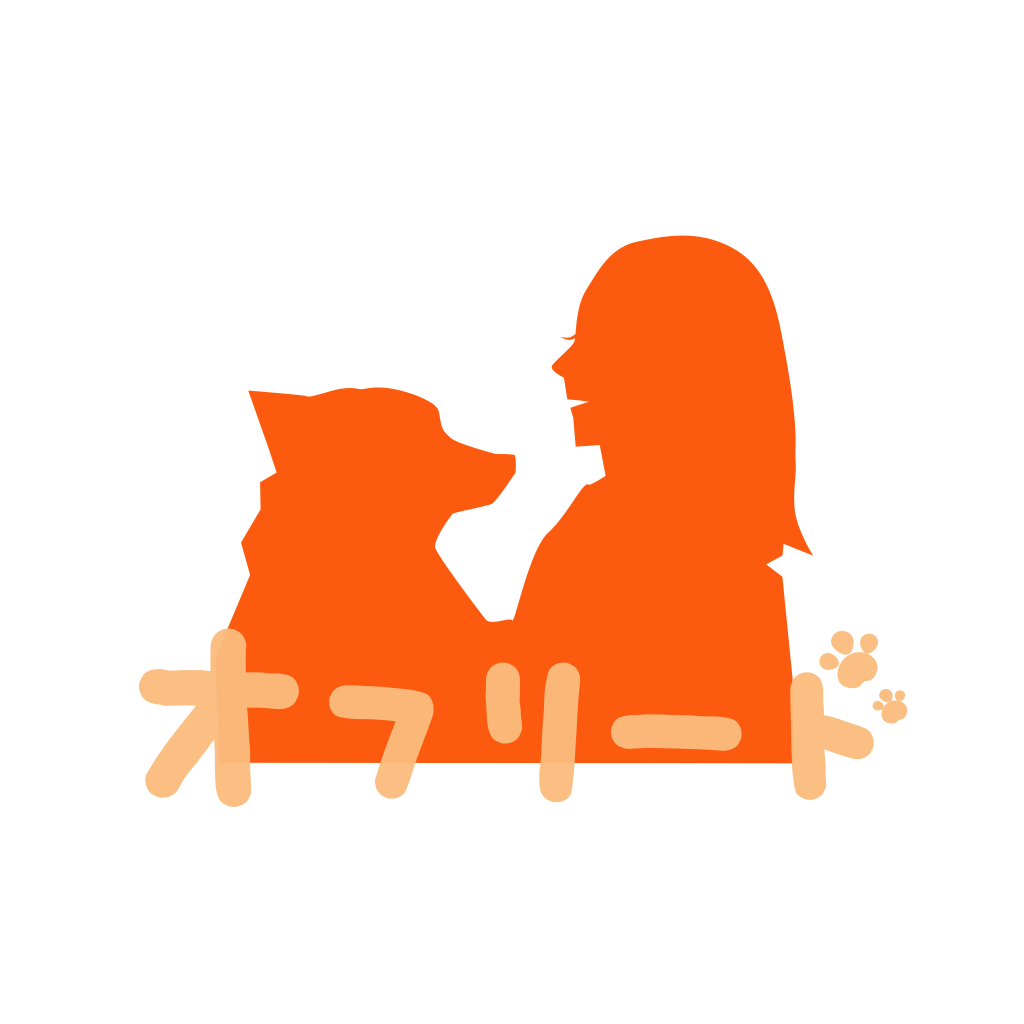
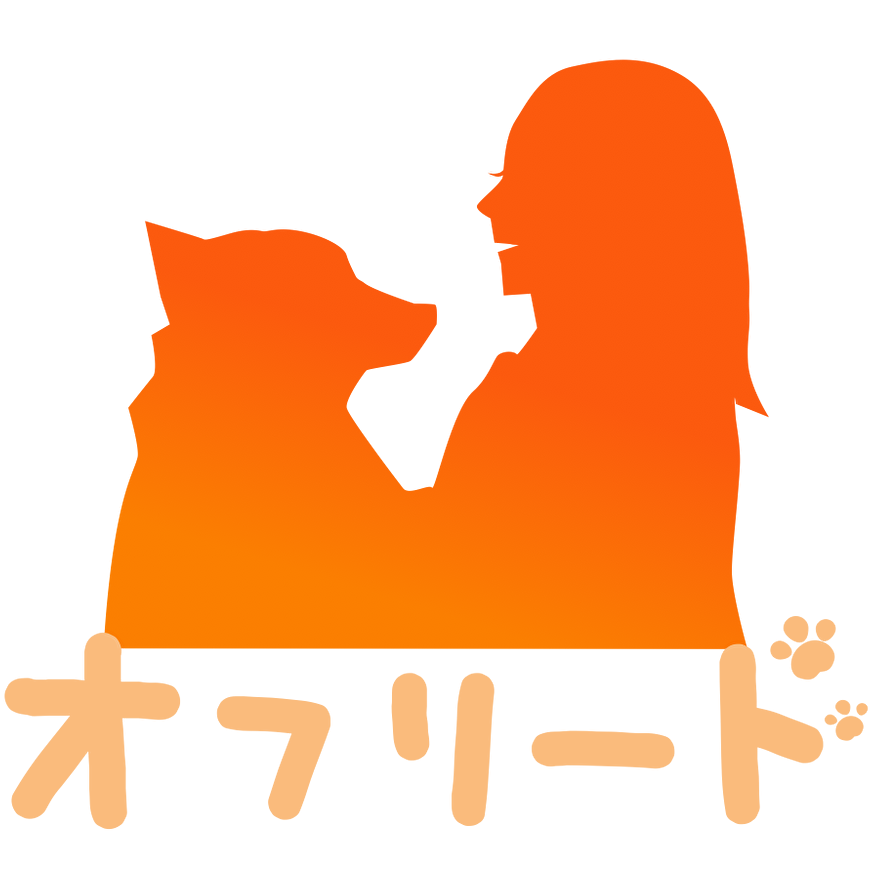
アイコンを変更

diff --git a/app/assets/stylesheets/application.scss b/app/assets/stylesheets/application.scss
@@ -1,5 +1,5 @@
 @import "bootstrap";
-
+@import "users";
 // max-width
 
 .mw-md {
@@ -55,7 +55,6 @@ div.clearfix {
 }
 
 #header-logo {
-  margin-top: -20px;
   margin-left: 15px;
 }
 
@@ -79,7 +78,7 @@ footer {
     a#footer-logo {
       position: absolute;
       float: left;
-      margin: 25px 0 0 180px;
+      margin: 40px 0 0 180px;
 
     }
 }

diff --git a/app/assets/stylesheets/users.scss b/app/assets/stylesheets/users.scss
@@ -1,3 +1,5 @@
-// Place all the styles related to the Users controller here.
-// They will automatically be included in application.css.
-// You can use Sass (SCSS) here: https://sass-lang.com/
+
+h1#users {
+  font-size: 30px;
+  margin-left: 200px;
+}

diff --git a/app/uploaders/img_uploader.rb b/app/uploaders/img_uploader.rb
@@ -6,20 +6,21 @@ class ImgUploader < CarrierWave::Uploader::Base
   # Choose what kind of storage to use for this uploader:
   storage :file
   # storage :fog
-
+  
+  #アップロードした画像の表示
   # Override the directory where uploaded files will be stored.
   # This is a sensible default for uploaders that are meant to be mounted:
   def store_dir
     "uploads/#{model.class.to_s.underscore}/#{mounted_as}/#{model.id}"
   end
-
+  #デフォルト画像の表示
   # Provide a default URL as a default if there hasn't been a file uploaded:
-  # def default_url(*args)
-  #   # For Rails 3.1+ asset pipeline compatibility:
-  #   # ActionController::Base.helpers.asset_path("fallback/" + [version_name, "default.png"].compact.join('_'))
-  #
-  #   "/images/fallback/" + [version_name, "default.png"].compact.join('_')
-  # end
+  def default_url(*args)
+    # For Rails 3.1+ asset pipeline compatibility:
+    ActionController::Base.helpers.asset_path("fallback/" + [version_name, "default.png"].compact.join('_'))
+  
+    # "/images/fallback/" + [version_name, "default.png"].compact.join('_')
+  end
 
   # Process files as they are uploaded:
   # process scale: [200, 300]

diff --git a/app/controllers/application_controller.rb b/app/controllers/application_controller.rb
@@ -14,6 +14,7 @@ class ApplicationController < ActionController::Base
 
     protected
     def configure_permitted_parameters
+      added_attrs = [:name, :email, :password, :img]
       devise_parameter_sanitizer.permit(:sign_up, keys: [:name, :content])
       devise_parameter_sanitizer.permit(:account_update, keys: [:name, :content])
     end
